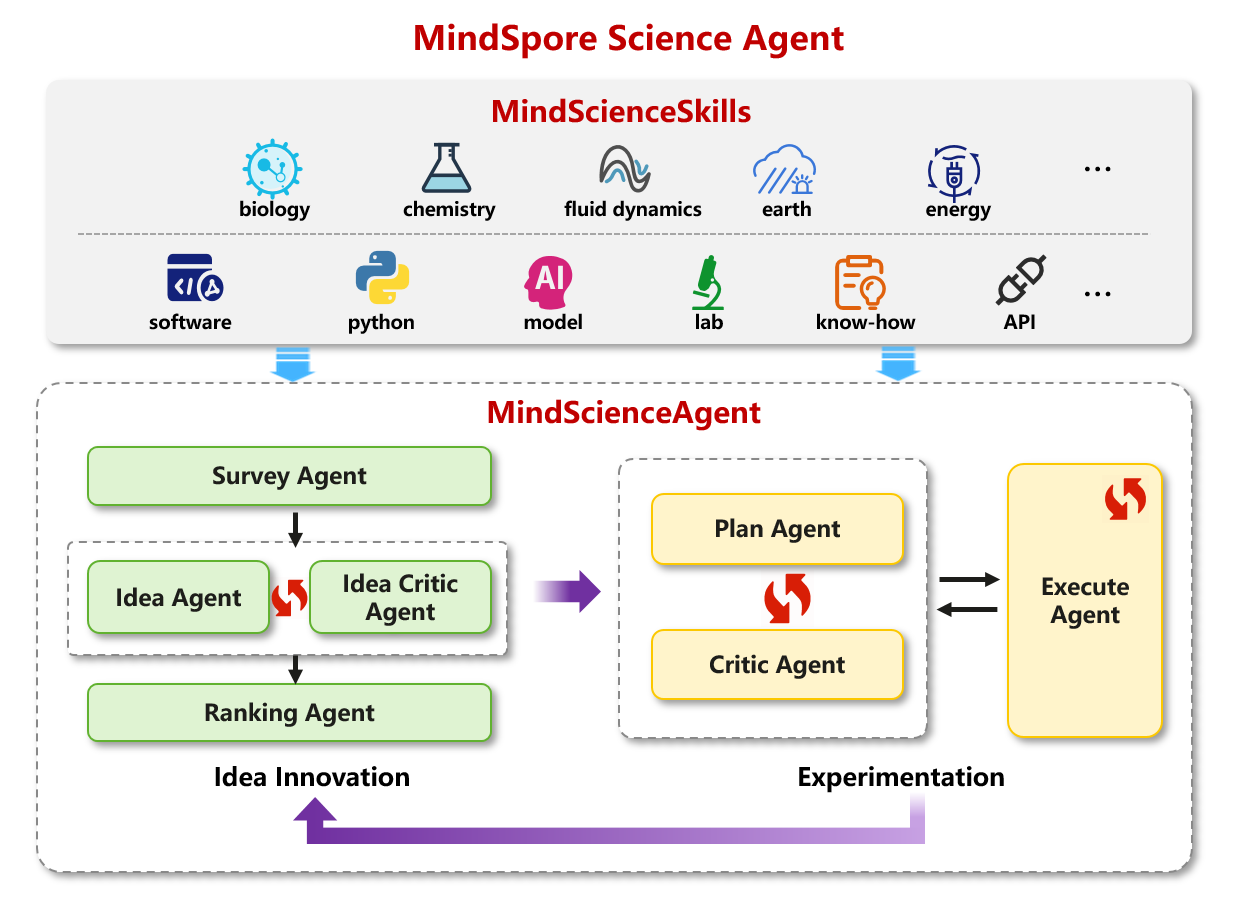
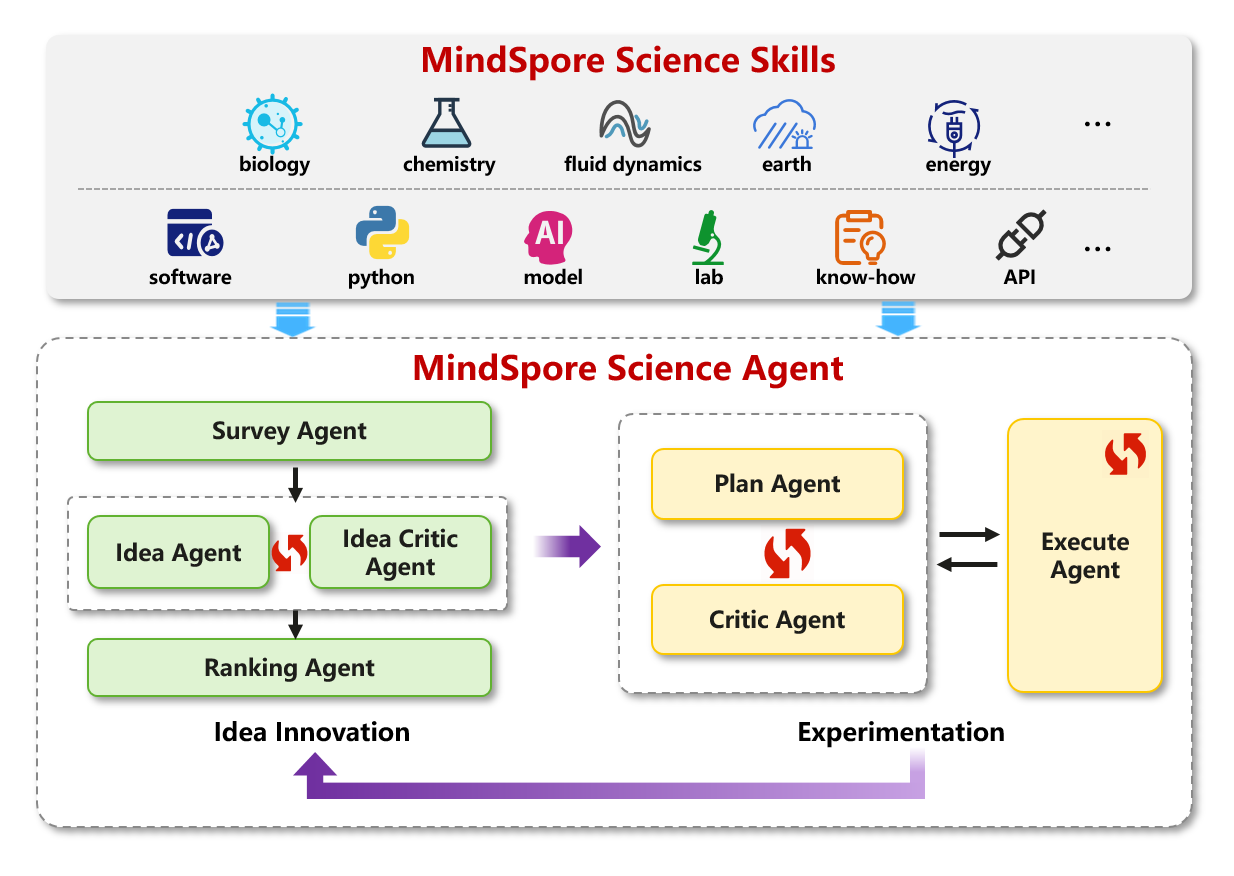
update image

diff --git a/MindScienceAgent/README_ZH.md b/MindScienceAgent/README_ZH.md
@@ -165,11 +165,9 @@ python run_workflow.py --prompt 'Please help me analyse the molecular weight of 
 
 MindSpore Science Agent采用OpenAI发布的FrontierScience中的国际化学奥赛题集进行评测，基于GLM-5模型，在avg N=8上的答题准确率达到77.88%，超过GLM-5模型（67.63%）以及斯坦福大学研究团队发布的 [Biomni](https://github.com/snap-stanford/Biomni)平台（70.51%）。
 
-| 智能体 | 平均正确率(avg N=8) |
-|------|------------|
-| GLM-5 | 67.63% |
-| Biomni (Stanford) | 70.51% |
-| **MindSpore Science Agent** | **77.88%** |
+<div align=center>
+  <img src="../docs/images/benchmark.png" alt="benchmark" width="600"/>
+</div>
 
 
 #### 样例测试代码
